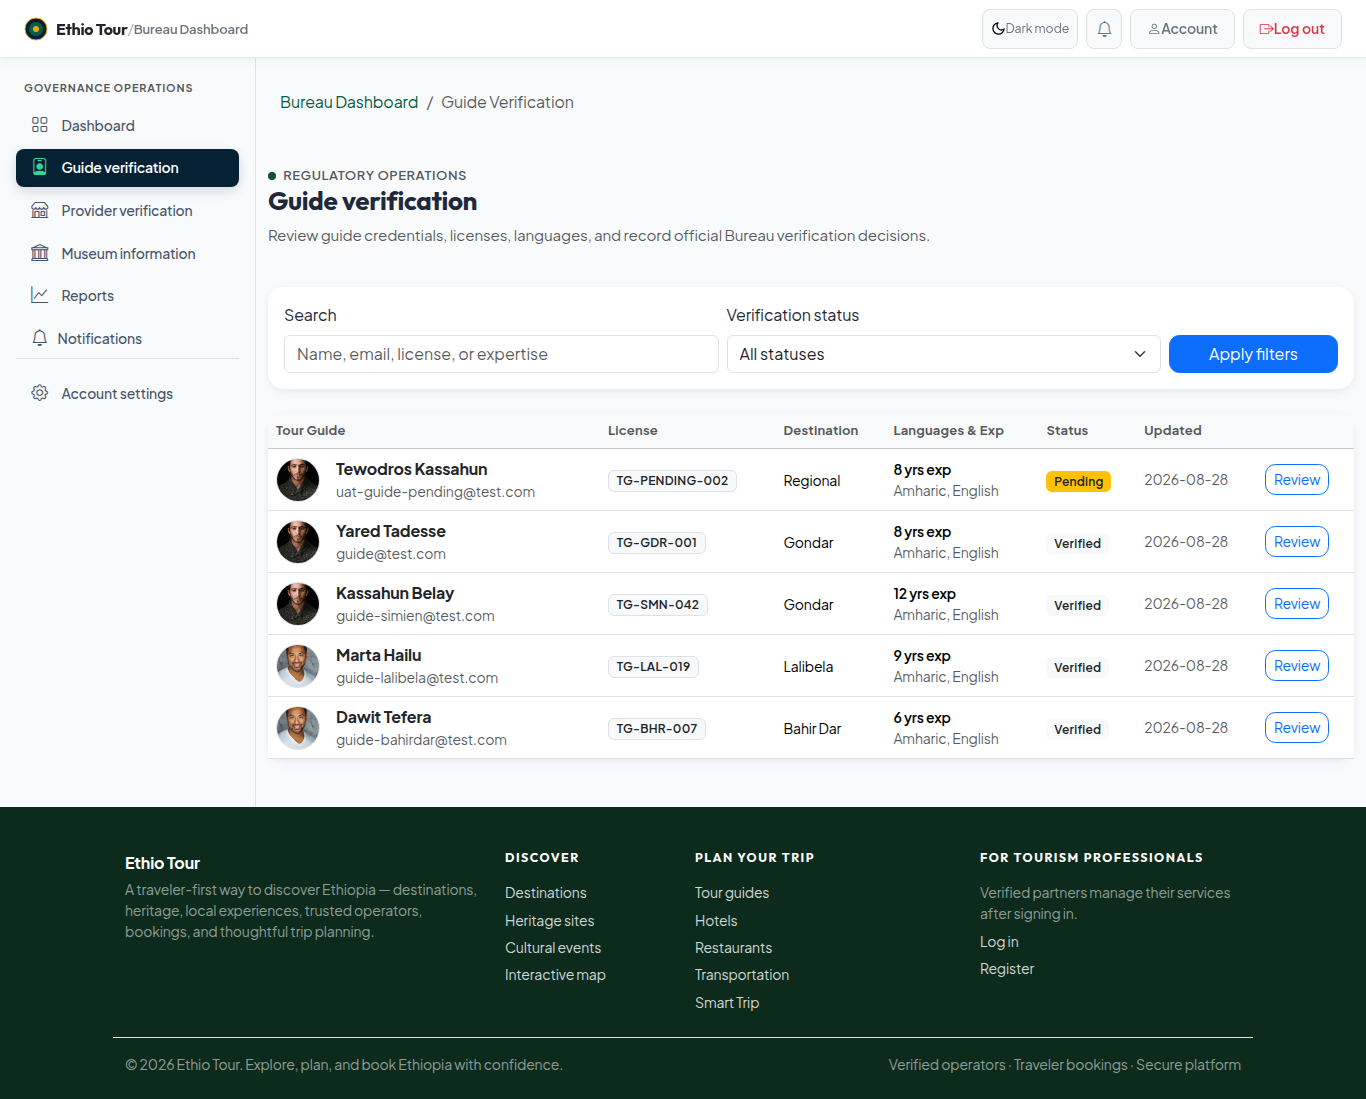
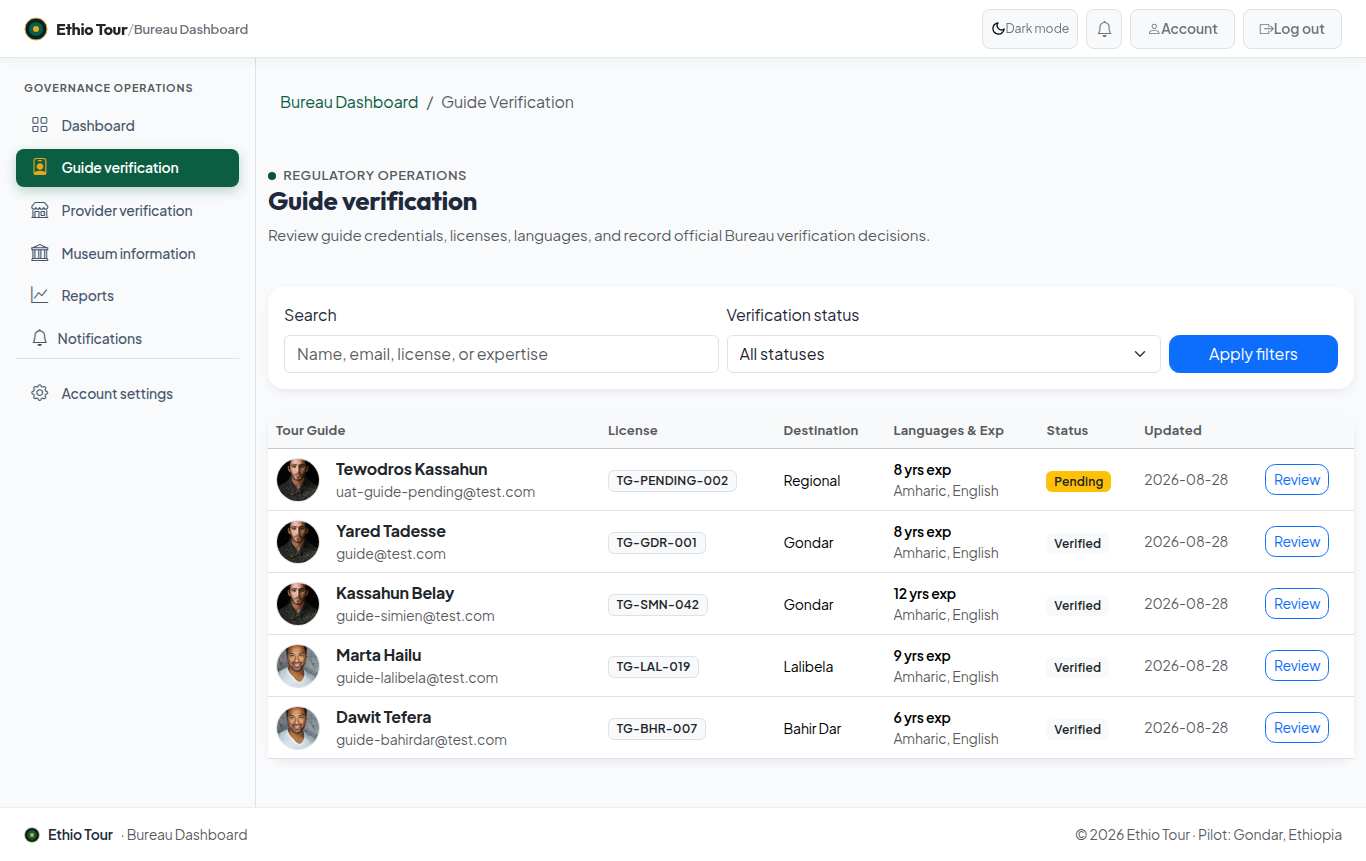
feat: professionally elevate portal workspaces

diff --git a/resources/css/app.css b/resources/css/app.css
@@ -2840,3 +2840,92 @@ button:focus-visible {
         padding: 2.25rem 1.5rem;
     }
 }
+
+/* --------------------------------------------------------------------------
+   Workspace coherence layer (Task #8)
+   One brand voice across every portal: emerald active states, gold accents,
+   consistent surfaces. Appended last so it wins the cascade.
+   -------------------------------------------------------------------------- */
+
+/* Sidebar: brand emerald active state instead of detached navy */
+.workspace-sidebar .nav-link.active {
+    background: var(--vn-emerald) !important;
+    color: #ffffff !important;
+    font-weight: 600 !important;
+    box-shadow: 0 4px 12px rgba(11, 94, 66, 0.25) !important;
+}
+
+.workspace-sidebar .nav-link.active i {
+    color: var(--vn-gold) !important;
+}
+
+[data-bs-theme='dark'] .workspace-sidebar .nav-link.active {
+    background: var(--vn-emerald) !important;
+    color: #ffffff !important;
+}
+
+/* Slim workspace footer */
+.workspace-footer {
+    background: var(--vn-surface);
+    border-top: 1px solid var(--vn-border);
+    color: var(--vn-text-main);
+}
+
+/* Consistent attention/alert styling inside workspaces */
+.workspace-content .alert {
+    border-radius: var(--ethio-radius);
+    border-width: 1px;
+    box-shadow: var(--ethio-shadow-xs);
+}
+
+.workspace-content .alert a {
+    font-weight: 600;
+}
+
+/* Workspace card headers: consistent surface in both themes */
+.workspace-content .card-header.bg-white {
+    background-color: var(--vn-surface) !important;
+    border-bottom: 1px solid var(--vn-border);
+}
+
+/* KPI stat cards: uniform rhythm across dashboards */
+.workspace-content .card .text-uppercase.fw-bold {
+    letter-spacing: 0.06em;
+    font-size: 0.72rem;
+}
+
+/* Stat cards: consistent KPI presentation across all workspace dashboards */
+.stat-card-label {
+    letter-spacing: 0.06em;
+    font-size: 0.72rem;
+}
+
+.stat-card-icon {
+    width: 2rem;
+    height: 2rem;
+    background: var(--vn-emerald-subtle);
+    color: var(--vn-emerald);
+    font-size: 0.95rem;
+}
+
+.stat-card-value {
+    font-family: var(--font-display);
+    letter-spacing: -0.02em;
+}
+
+[data-bs-theme='dark'] .stat-card-icon {
+    background: rgba(11, 94, 66, 0.35);
+    color: #6ee7b7;
+}
+
+/* Brand CTA: one primary action style across workspaces */
+.workspace-content .btn-dark {
+    --bs-btn-bg: var(--vn-emerald);
+    --bs-btn-border-color: var(--vn-emerald);
+    --bs-btn-hover-bg: var(--vn-emerald-hover);
+    --bs-btn-hover-border-color: var(--vn-emerald-hover);
+    --bs-btn-active-bg: var(--vn-emerald-hover);
+    --bs-btn-active-border-color: var(--vn-emerald-hover);
+    --bs-btn-disabled-bg: var(--vn-emerald);
+    --bs-btn-disabled-border-color: var(--vn-emerald);
+}

diff --git a/resources/views/hotel/dashboard.blade.php b/resources/views/hotel/dashboard.blade.php
@@ -9,10 +9,10 @@
     @if($stats['pendingAttention'] > 0)<div class="alert alert-warning">{{ $stats['pendingAttention'] }} reservation request(s) are waiting. <a href="{{ route('hotel.reservations.index', ['status' => 'pending']) }}">Review reservations</a></div>@else<div class="alert alert-success">No hotel reservation requests are waiting.</div>@endif
     <div class="d-flex flex-wrap gap-3 small mb-3"><a href="{{ route('hotel.services.index') }}">Room-type services</a><a href="{{ route('hotel.rooms.index') }}">Physical rooms</a><a href="{{ route('hotel.reservations.index') }}">Reservations</a><span class="text-muted">Guest feedback: {{ $stats['reviewCount'] > 0 ? $stats['reviewCount'].' recorded' : 'no reviews recorded' }}</span></div>
     <div class="row g-3 mb-4">
-        <div class="col-6 col-xl-3"><div class="card border-0 shadow-sm rounded-4 h-100 p-3"><span class="small text-muted text-uppercase fw-bold">Rooms</span><strong class="h3 mt-2">{{ $stats['totalRooms'] }}</strong><span class="small text-muted">{{ $stats['activeRooms'] }} Active rooms · {{ $stats['inactiveRooms'] }} inactive</span></div></div>
-        <div class="col-6 col-xl-3"><div class="card border-0 shadow-sm rounded-4 h-100 p-3"><span class="small text-muted text-uppercase fw-bold">Occupancy</span><strong class="h3 mt-2">{{ $stats['occupancyRate'] !== null ? $stats['occupancyRate'].'%' : 'Not available' }}</strong><span class="small text-muted">Based on current room reservations</span></div></div>
-        <div class="col-6 col-xl-3"><div class="card border-0 shadow-sm rounded-4 h-100 p-3"><span class="small text-muted text-uppercase fw-bold">7-day revenue</span><strong class="h3 mt-2">{{ number_format($stats['weeklyRevenue'], 2) }} ETB</strong><span class="small text-muted">Confirmed and completed bookings</span></div></div>
-        <div class="col-6 col-xl-3"><div class="card border-0 shadow-sm rounded-4 h-100 p-3"><span class="small text-muted text-uppercase fw-bold">Reviews</span>@if($stats['reviewCount'] > 0)<strong class="h3 mt-2">{{ number_format($stats['reviewAverage'], 1) }} / 5</strong><span class="small text-muted">{{ $stats['reviewCount'] }} recorded</span>@else<strong class="h5 mt-2">No reviews yet</strong><span class="small text-muted">No review records</span>@endif</div></div>
+        <div class="col-6 col-xl-3"><x-ui.stat-card label="Rooms" icon="door-closed" :value="$stats['totalRooms']" :hint="$stats['activeRooms'].' Active rooms · '.$stats['inactiveRooms'].' inactive'" /></div>
+        <div class="col-6 col-xl-3"><x-ui.stat-card label="Occupancy" icon="pie-chart" :value="$stats['occupancyRate'] !== null ? $stats['occupancyRate'].'%' : 'Not available'" hint="Based on current room reservations" /></div>
+        <div class="col-6 col-xl-3"><x-ui.stat-card label="7-day revenue" icon="cash-stack" :value="number_format($stats['weeklyRevenue'], 2).' ETB'" hint="Confirmed and completed bookings" /></div>
+        <div class="col-6 col-xl-3"><x-ui.stat-card label="Reviews" icon="star" :value="$stats['reviewCount'] > 0 ? number_format($stats['reviewAverage'], 1).' / 5' : 'No reviews yet'" :hint="$stats['reviewCount'] > 0 ? $stats['reviewCount'].' recorded' : 'No review records'" /></div>
     </div>
     <div class="row g-4">
         <div class="col-lg-7"><div class="card border-0 shadow-sm rounded-4"><div class="card-header bg-white d-flex justify-content-between"><h2 class="h5 mb-0">7-day revenue activity</h2><span class="small text-muted">{{ number_format($stats['weeklyRevenue'], 2) }} ETB</span></div><div class="card-body">@if($stats['weeklyRevenue'] > 0)<div class="d-flex align-items-end gap-2" style="height: 150px">@foreach($stats['weeklyChartDays'] as $day)<div class="flex-fill text-center"><div class="bg-success rounded-top" style="height: {{ max(2, $day['height']) }}%;" title="{{ $day['day'] }}: {{ number_format($day['amount'], 2) }} ETB"></div><small class="text-muted">{{ $day['day'] }}</small></div>@endforeach</div>@else<div class="text-muted py-5 text-center">No confirmed or completed hotel revenue in the last seven days.</div>@endif</div></div></div>

diff --git a/resources/views/restaurant/dashboard.blade.php b/resources/views/restaurant/dashboard.blade.php
@@ -8,10 +8,10 @@
     <h2 class="h5 mb-3">Needs attention</h2>
     @if($stats['pendingReservations'] > 0)<div class="alert alert-warning">{{ $stats['pendingReservations'] }} reservation request(s) are waiting. <a href="{{ route('restaurant.reservations.index', ['status' => 'pending']) }}">Review reservations</a></div>@else<div class="alert alert-success">No restaurant reservation requests are waiting.</div>@endif
     <div class="row g-3 mb-4">
-        <div class="col-6 col-xl-3"><div class="card border-0 shadow-sm rounded-4 h-100 p-3"><span class="small text-muted text-uppercase fw-bold">Services</span><strong class="h3 mt-2">{{ $stats['serviceCount'] }}</strong><span class="small text-muted">Published restaurant offerings</span></div></div>
-        <div class="col-6 col-xl-3"><div class="card border-0 shadow-sm rounded-4 h-100 p-3"><span class="small text-muted text-uppercase fw-bold">Tables</span><strong class="h3 mt-2">{{ $stats['activeTables'] }} / {{ $stats['tableCount'] }}</strong><span class="small text-muted">Active / total tables</span></div></div>
-        <div class="col-6 col-xl-3"><div class="card border-0 shadow-sm rounded-4 h-100 p-3"><span class="small text-muted text-uppercase fw-bold">This month revenue</span><strong class="h3 mt-2">{{ number_format($stats['monthlyRevenue'], 2) }} ETB</strong><span class="small text-muted">Confirmed and completed bookings</span></div></div>
-        <div class="col-6 col-xl-3"><div class="card border-0 shadow-sm rounded-4 h-100 p-3"><span class="small text-muted text-uppercase fw-bold">Reviews</span>@if($stats['reviewCount'] > 0)<strong class="h3 mt-2">{{ number_format($stats['reviewAverage'], 1) }} / 5</strong><span class="small text-muted">{{ $stats['reviewCount'] }} recorded</span>@else<strong class="h5 mt-2">No reviews yet</strong><span class="small text-muted">No review records</span>@endif</div></div>
+        <div class="col-6 col-xl-3"><x-ui.stat-card label="Services" icon="card-list" :value="$stats['serviceCount']" hint="Published restaurant offerings" /></div>
+        <div class="col-6 col-xl-3"><x-ui.stat-card label="Tables" icon="grid-3x3-gap" :value="$stats['activeTables'].' / '.$stats['tableCount']" hint="Active / total tables" /></div>
+        <div class="col-6 col-xl-3"><x-ui.stat-card label="This month revenue" icon="cash-stack" :value="number_format($stats['monthlyRevenue'], 2).' ETB'" hint="Confirmed and completed bookings" /></div>
+        <div class="col-6 col-xl-3"><x-ui.stat-card label="Reviews" icon="star" :value="$stats['reviewCount'] > 0 ? number_format($stats['reviewAverage'], 1).' / 5' : 'No reviews yet'" :hint="$stats['reviewCount'] > 0 ? $stats['reviewCount'].' recorded' : 'No review records'" /></div>
     </div>
     <div class="row g-4">
         <div class="col-lg-7"><div class="card border-0 shadow-sm rounded-4"><div class="card-header bg-white d-flex justify-content-between"><div><h2 class="h5 mb-0">Menu performance</h2><small class="text-muted">Booking counts from current records</small></div><a href="{{ route('restaurant.services.index') }}" class="small">Manage</a></div><div class="list-group list-group-flush">@forelse($dishPerformance as $dish)<div class="list-group-item"><div class="d-flex justify-content-between"><strong>{{ $dish['name'] }}</strong><span>{{ $dish['orders'] }} booking(s)</span></div><div class="progress mt-2" style="height: 6px"><div class="progress-bar" style="width: {{ $dish['percentage'] }}%"></div></div><small class="text-muted">{{ number_format($dish['price'], 2) }} ETB · {{ $dish['category'] }}</small></div>@empty<div class="list-group-item text-muted">No restaurant services have been added yet.</div>@endforelse</div></div></div>

diff --git a/resources/views/transportation/dashboard.blade.php b/resources/views/transportation/dashboard.blade.php
@@ -8,10 +8,10 @@
     <h2 class="h5 mb-3">Needs attention</h2>
     @if($stats['pendingReservations'] > 0)<div class="alert alert-warning">{{ $stats['pendingReservations'] }} rental request(s) are waiting for review. <a href="{{ route('transportation.reservations.index', ['status' => 'pending']) }}">Review requests</a></div>@else<div class="alert alert-success">No rental requests are waiting.</div>@endif
     <div class="row g-3 mb-4">
-        <div class="col-6 col-xl-3"><div class="card border-0 shadow-sm rounded-4 h-100 p-3"><span class="small text-muted text-uppercase fw-bold">Active vehicles</span><strong class="h3 mt-2">{{ $stats['activeVehicles'] }} / {{ $stats['vehicleCount'] }}</strong><span class="small text-muted">Current inventory records</span></div></div>
-        <div class="col-6 col-xl-3"><div class="card border-0 shadow-sm rounded-4 h-100 p-3"><span class="small text-muted text-uppercase fw-bold">Trips today</span><strong class="h3 mt-2">{{ $stats['scheduledTripsToday'] }}</strong><span class="small text-muted">Accepted, payment-pending, or confirmed</span></div></div>
-        <div class="col-6 col-xl-3"><div class="card border-0 shadow-sm rounded-4 h-100 p-3"><span class="small text-muted text-uppercase fw-bold">This month revenue</span><strong class="h3 mt-2">{{ number_format($stats['escrowRevenue'], 2) }} ETB</strong><span class="small text-muted">Confirmed and completed bookings</span></div></div>
-        <div class="col-6 col-xl-3"><div class="card border-0 shadow-sm rounded-4 h-100 p-3"><span class="small text-muted text-uppercase fw-bold">Reviews</span>@if($stats['reviewCount'] > 0)<strong class="h3 mt-2">{{ number_format($stats['reviewAverage'], 1) }} / 5</strong><span class="small text-muted">{{ $stats['reviewCount'] }} recorded</span>@else<strong class="h5 mt-2">No reviews yet</strong><span class="small text-muted">No review records</span>@endif</div></div>
+        <div class="col-6 col-xl-3"><x-ui.stat-card label="Active vehicles" icon="truck-front" :value="$stats['activeVehicles'].' / '.$stats['vehicleCount']" hint="Current inventory records" /></div>
+        <div class="col-6 col-xl-3"><x-ui.stat-card label="Trips today" icon="signpost-split" :value="$stats['scheduledTripsToday']" hint="Accepted, payment-pending, or confirmed" /></div>
+        <div class="col-6 col-xl-3"><x-ui.stat-card label="This month revenue" icon="cash-stack" :value="number_format($stats['escrowRevenue'], 2).' ETB'" hint="Confirmed and completed bookings" /></div>
+        <div class="col-6 col-xl-3"><x-ui.stat-card label="Reviews" icon="star" :value="$stats['reviewCount'] > 0 ? number_format($stats['reviewAverage'], 1).' / 5' : 'No reviews yet'" :hint="$stats['reviewCount'] > 0 ? $stats['reviewCount'].' recorded' : 'No review records'" /></div>
     </div>
     <div class="row g-4">
         <div class="col-lg-7"><div class="card border-0 shadow-sm rounded-4"><div class="card-header bg-white d-flex justify-content-between"><h2 class="h5 mb-0">Fleet overview</h2><a href="{{ route('transportation.vehicles.index') }}" class="small">Manage</a></div><div class="list-group list-group-flush">@forelse($vehicles as $vehicle)<div class="list-group-item d-flex justify-content-between gap-3"><div><strong>{{ $vehicle->vehicle_identifier }}</strong><small class="d-block text-muted">{{ trim($vehicle->make.' '.$vehicle->model) ?: 'Vehicle details not provided' }} · capacity {{ $vehicle->capacity ?: 'not set' }}</small></div><x-ui.status-badge :status="$vehicle->status" /></div>@empty<div class="list-group-item text-muted">No vehicles have been added yet.</div>@endforelse</div></div></div>

diff --git a/resources/views/bureau/dashboard.blade.php b/resources/views/bureau/dashboard.blade.php
@@ -17,7 +17,7 @@
             ['label' => 'Pending documents', 'value' => $pendingDocuments, 'note' => 'Documents awaiting review'],
             ['label' => 'Pending payment amount', 'value' => number_format($activeEscrowVolume, 2).' ETB', 'note' => 'Pending payment records'],
         ] as $metric)
-            <div class="col-6 col-xl-3"><div class="card border-0 shadow-sm rounded-4 h-100 bg-white p-3"><span class="text-muted small fw-bold text-uppercase d-block mb-1">{{ $metric['label'] }}</span><strong class="h3 mb-1 font-monospace">{{ $metric['value'] }}</strong><span class="small text-muted">{{ $metric['note'] }}</span></div></div>
+            <div class="col-6 col-xl-3"><x-ui.stat-card :label="$metric['label']" :icon="$metric['icon'] ?? null" :value="$metric['value']" :hint="$metric['note']" /></div>
         @endforeach
     </div>
 
@@ -38,7 +38,15 @@
         <div class="col-lg-5">
             <div class="card border-0 shadow-sm rounded-4 mb-4"><div class="card-header bg-white"><h2 class="h5 mb-0">Verification summary</h2></div><div class="card-body"><dl class="row mb-0"><dt class="col-8">Bureau-verified guides</dt><dd class="col-4 text-end">{{ $verifiedGuides }}</dd><dt class="col-8">Museums</dt><dd class="col-4 text-end">{{ $museumCount }}</dd><dt class="col-8">Attractions</dt><dd class="col-4 text-end">{{ $attractionCount }}</dd><dt class="col-8">Pending documents</dt><dd class="col-4 text-end">{{ $pendingDocuments }}</dd></dl></div></div>
             <div class="card border-0 shadow-sm rounded-4 mb-4"><div class="card-header bg-white"><h2 class="h5 mb-0">Museum / tourism operations</h2></div><div class="card-body small text-muted">{{ $museumCount }} museum record{{ $museumCount === 1 ? '' : 's' }} and {{ $attractionCount }} attraction record{{ $attractionCount === 1 ? '' : 's' }} are currently stored.</div></div>
-            <div class="card border-0 shadow-sm rounded-4"><div class="card-header bg-white"><h2 class="h5 mb-0">Workflow</h2></div><div class="card-body small text-muted"><p class="mb-0">Bureau officers verify guide profiles and documents. Administrators make the final guide approval decision from their guide queue.</p></div></div>
+            <div class="card border-0 shadow-sm rounded-4"><div class="card-body small">
+                <details class="workflow-details">
+                    <summary class="d-flex align-items-center justify-content-between fw-semibold" style="cursor: pointer; list-style: none;">
+                        <span><i class="bi bi-diagram-3 me-2 text-success" aria-hidden="true"></i>Workflow</span>
+                        <i class="bi bi-chevron-down text-muted" aria-hidden="true"></i>
+                    </summary>
+                    <p class="mb-0 mt-2 text-muted">Bureau officers verify guide profiles and documents. Administrators make the final guide approval decision from their guide queue.</p>
+                </details>
+            </div></div>
         </div>
     </div>
 </div>

diff --git a/resources/views/event-organizer/dashboard.blade.php b/resources/views/event-organizer/dashboard.blade.php
@@ -8,10 +8,10 @@
     <h2 class="h5 mb-3">Needs attention</h2>
     @if($pendingEventBookings > 0)<div class="alert alert-warning">{{ $pendingEventBookings }} event booking request{{ $pendingEventBookings === 1 ? '' : 's' }} are waiting for review. <a href="{{ route('event-organizer.events.bookings') }}">Review bookings</a></div>@else<div class="alert alert-success">No event booking requests are waiting.</div>@endif
     <div class="row g-3 mb-4">
-        <div class="col-6 col-xl-3"><div class="card border-0 shadow-sm rounded-4 h-100 p-3"><span class="small text-muted text-uppercase fw-bold">Confirmed registrations</span><strong class="h3 mt-2">{{ $stats['registrationsSecured'] }}</strong><span class="small text-muted">Tickets in accepted or paid bookings</span></div></div>
-        <div class="col-6 col-xl-3"><div class="card border-0 shadow-sm rounded-4 h-100 p-3"><span class="small text-muted text-uppercase fw-bold">Confirmed ticket value</span><strong class="h3 mt-2">{{ number_format($stats['escrowVolume'], 2) }} ETB</strong><span class="small text-muted">Confirmed and completed bookings</span></div></div>
-        <div class="col-6 col-xl-3"><div class="card border-0 shadow-sm rounded-4 h-100 p-3"><span class="small text-muted text-uppercase fw-bold">Published events</span><strong class="h3 mt-2">{{ $publishedCount }}</strong><span class="small text-muted">{{ $eventCount }} total event records</span></div></div>
-        <div class="col-6 col-xl-3"><div class="card border-0 shadow-sm rounded-4 h-100 p-3"><span class="small text-muted text-uppercase fw-bold">Next event</span><strong class="h5 mt-2">{{ $stats['nextEvent']?->event_name ?: 'Not scheduled' }}</strong><span class="small text-muted">{{ $stats['daysToCelebration'] !== null ? $stats['daysToCelebration'].' day(s)' : 'No upcoming event date' }}</span></div></div>
+        <div class="col-6 col-xl-3"><x-ui.stat-card label="Confirmed registrations" icon="ticket-detailed" :value="$stats['registrationsSecured']" hint="Tickets in accepted or paid bookings" /></div>
+        <div class="col-6 col-xl-3"><x-ui.stat-card label="Confirmed ticket value" icon="cash-stack" :value="number_format($stats['escrowVolume'], 2).' ETB'" hint="Confirmed and completed bookings" /></div>
+        <div class="col-6 col-xl-3"><x-ui.stat-card label="Published events" icon="calendar-event" :value="$publishedCount" :hint="$eventCount.' total event records'" /></div>
+        <div class="col-6 col-xl-3"><x-ui.stat-card label="Next event" icon="clock" :value="$stats['nextEvent']?->event_name ?: 'Not scheduled'" :hint="$stats['daysToCelebration'] !== null ? $stats['daysToCelebration'].' day(s)' : 'No upcoming event date'" /></div>
     </div>
 
     <h2 class="h5 mb-3">Operational insights</h2>

diff --git a/resources/views/layouts/partials/footer.blade.php b/resources/views/layouts/partials/footer.blade.php
@@ -1,3 +1,22 @@
+@if (!empty($workspaceRole))
+{{-- Slim workspace footer: operational surfaces get brand context, not marketing navigation. --}}
+<footer class="workspace-footer mt-auto" aria-label="Workspace footer">
+    <div class="container-fluid px-3 px-lg-4">
+        <div class="d-flex flex-wrap align-items-center justify-content-between gap-2 py-3 small">
+            <span class="d-inline-flex align-items-center gap-2">
+                <svg width="16" height="16" viewBox="0 0 48 48" fill="none" xmlns="http://www.w3.org/2000/svg" aria-hidden="true">
+                    <circle cx="24" cy="24" r="22" fill="#062133" stroke="#e5a919" stroke-width="2"/>
+                    <circle cx="24" cy="24" r="14" fill="#0b5e42"/>
+                    <circle cx="24" cy="24" r="6" fill="#e5a919"/>
+                </svg>
+                <span class="fw-semibold">Ethio Tour</span>
+                <span class="text-muted">· {{ $workspaceLabel }}</span>
+            </span>
+            <span class="text-muted">&copy; {{ now()->year }} Ethio Tour · Pilot: Gondar, Ethiopia</span>
+        </div>
+    </div>
+</footer>
+@else
 <footer class="site-footer mt-auto">
     <div class="container">
         <div class="row g-4 pb-4 border-bottom border-white-subtle">
@@ -39,3 +58,4 @@
         </div>
     </div>
 </footer>
+@endif

diff --git a/resources/views/components/ui/stat-card.blade.php b/resources/views/components/ui/stat-card.blade.php
@@ -1,0 +1,25 @@
+@props([
+    'label',
+    'value' => null,
+    'hint' => null,
+    'icon' => null,
+])
+
+<div class="card border-0 shadow-sm rounded-4 h-100 p-3 stat-card">
+    <div class="d-flex align-items-center justify-content-between gap-2">
+        <span class="small text-muted text-uppercase fw-bold stat-card-label">{{ $label }}</span>
+        @if ($icon)
+            <span class="stat-card-icon d-inline-flex align-items-center justify-content-center rounded-3 flex-shrink-0" aria-hidden="true">
+                <i class="bi bi-{{ $icon }}"></i>
+            </span>
+        @endif
+    </div>
+    @if ($value !== null)
+        <strong class="h3 mt-2 mb-1 stat-card-value">{{ $value }}</strong>
+    @else
+        {{ $slot }}
+    @endif
+    @if ($hint)
+        <span class="small text-muted stat-card-hint">{{ $hint }}</span>
+    @endif
+</div>

diff --git a/resources/views/layouts/partials/workspace-header.blade.php b/resources/views/layouts/partials/workspace-header.blade.php
@@ -62,7 +62,7 @@
                 {{-- Logout --}}
                 <form method="POST" action="{{ route('logout') }}" class="d-inline m-0">
                     @csrf
-                    <button class="btn btn-sm btn-light border rounded-3 px-3 py-1.5 text-danger d-inline-flex align-items-center gap-1.5 small fw-semibold" type="submit">
+                    <button class="btn btn-sm btn-light border rounded-3 px-3 py-1.5 text-secondary d-inline-flex align-items-center gap-1.5 small fw-semibold" type="submit">
                         <i class="bi bi-box-arrow-right"></i>
                         <span>Log out</span>
                     </button>

diff --git a/resources/views/layouts/app.blade.php b/resources/views/layouts/app.blade.php
@@ -103,7 +103,7 @@
         </main>
     @endif
 
-    @include('layouts.partials.footer')
+    @include('layouts.partials.footer', ['workspaceRole' => $workspaceRole, 'workspaceLabel' => $workspaceLabel])
     @stack('scripts')
 </body>
 </html>
